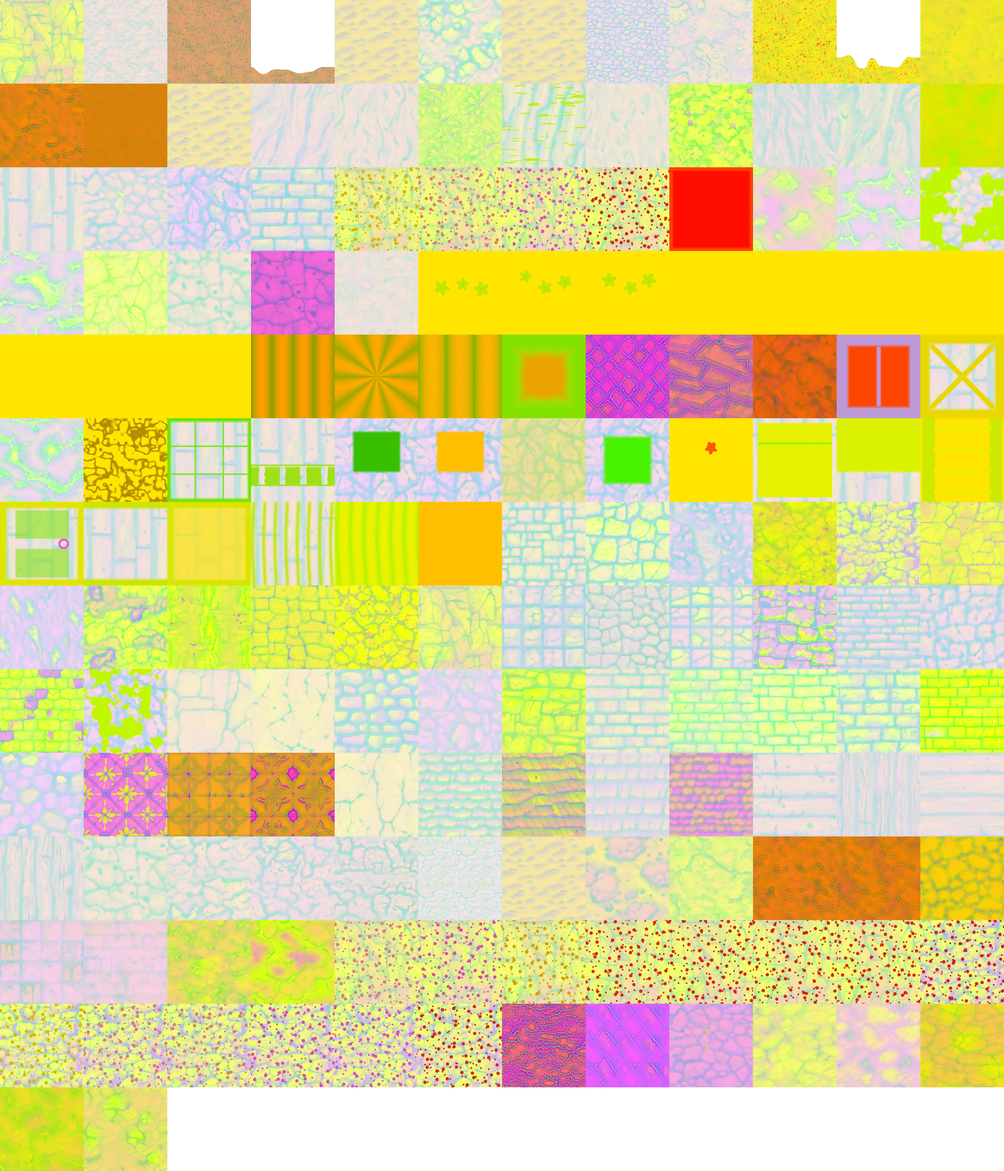
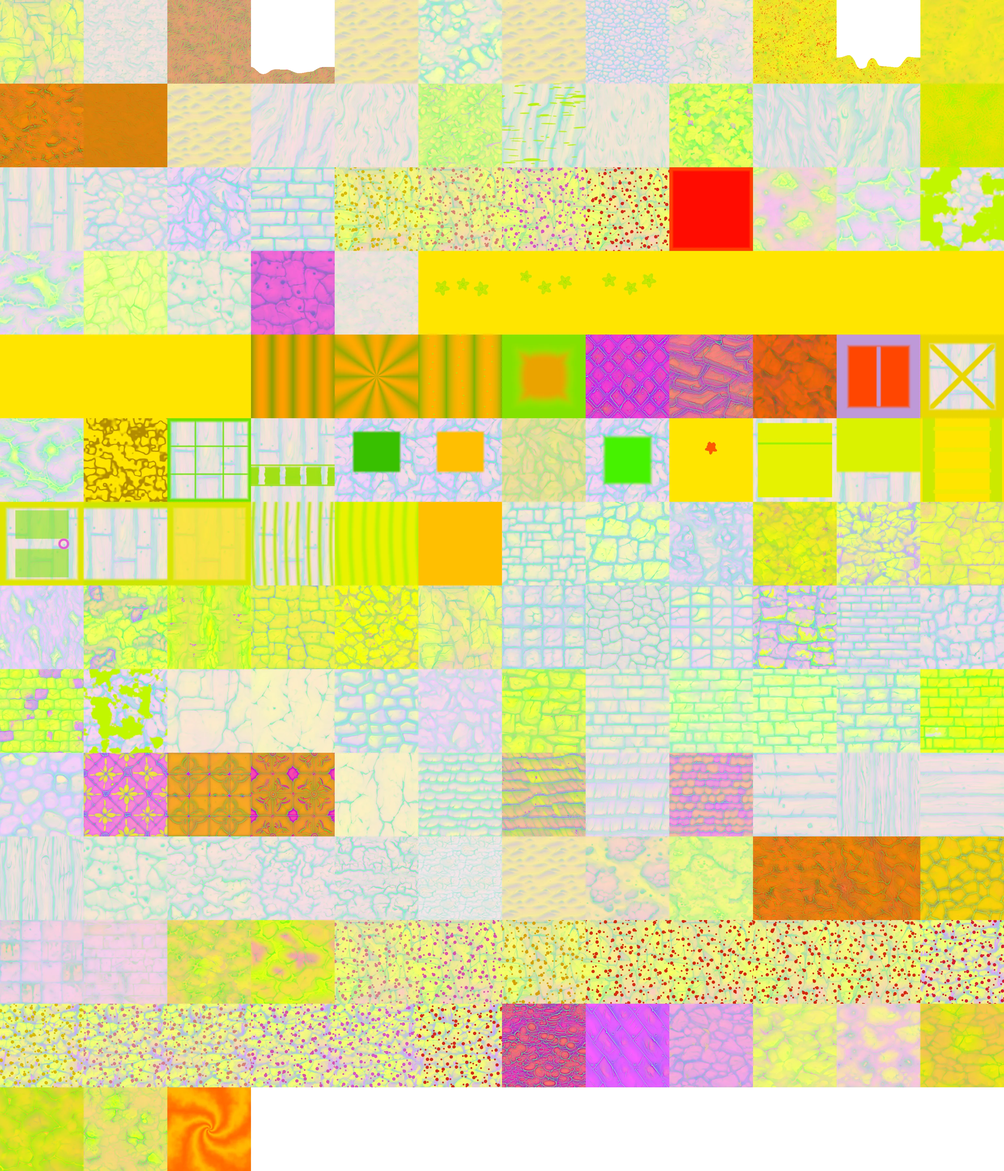
A curtain of light down every divider, seen from across the map.
The portal blocks are terrain and terrain streams: chunks load at 150 and are
freed at 190, so a divider four hundred units away is not dim, it does not
exist as geometry. No amount of emission on a tile answers "make the divider
glow visible from far", and the fog would hide it if it did.

So `render/Dividers.js` is a second object that stands in for them at range.
One draw call: a 1x1 plane, 144 instances (the 16 ring edges times the 9 wrap
copies, so the nearest copy is always in front of you and nothing is re-placed
at a seam), 288 triangles, instance matrices written once and never touched.
Its own material, so no fog; additive; and the fragment fades itself out under
170 units, which is inside the range the real blocks are kept to, so the two
never fight.

Also re-bakes the tile atlas. It was one layer short - `edgestone` had been
added to TILES without a bake, so the block at layer 158 has been sampling off
the end of the array since it landed. The portal now has its tile.

Verified in the running game, save slot 7: the divider draws as an opaque wall
of violet swirls and the crosshair names it PORTAL; walking west into it from
face 2 at x=416.1, y=43 puts you at x=414.5 on face 1, y=33, grounded and
unhurt; and the curtain reads across the map from 385 units out, above the
terrain and through the fog.

Claude-Session: https://claude.ai/code/session_01RLLAmuXJK1RFtqMSouLPDf

Changed region(s): [[0.1562, 0.9062, 0.25, 1.0]]

diff --git a/src/render/Dividers.js b/src/render/Dividers.js
@@ -1,0 +1,210 @@
+// The dividers, seen from across the map.
+//
+// The portal blocks themselves are terrain, and terrain streams: chunks load
+// within CHUNK_LOAD_DIST (150) and are freed at CHUNK_KEEP_DIST (190). A
+// divider four hundred units away is therefore not dim, it **does not exist as
+// geometry** - and the map is 1248 across, so most of the time most of the
+// eight boundaries are nothing at all. The owner's ask, "make the divider glow
+// visible from far", cannot be answered with emission on a tile for that
+// reason, however bright the tile is.
+//
+// So this is a second, much cheaper object that stands in for them at range: a
+// curtain of light along each divider run, built once from `Grid.isWall`'s own
+// rule, never streamed and never rebuilt.
+//
+// ### How it stays honest against the real blocks
+//
+// Two things would give it away. The first is drawing it on top of the portal
+// you are standing next to, which reads as z-fighting on a wall - so the
+// fragment fades itself out by distance, and is gone well inside the range the
+// real blocks start loading at. The second is the fog: the curtain's whole
+// purpose is to be seen from further than the fog reaches, so it uses its own
+// material with no fog term rather than the voxel one.
+//
+// ### Cost
+//
+// One draw call. A run is a straight line of F columns, so one quad covers it,
+// and every run is the same size - so it is a single InstancedMesh over a
+// 1x1 plane: 4 vertices and 2 triangles of geometry, 144 instances (16 ring
+// edges times the 9 wrap copies), 288 triangles drawn. The instance matrices
+// are written once at construction and never touched again, which is what pays
+// for the wrap: a copy of every run at -W, 0 and +W on both axes means the
+// nearest one is always in front of you and nothing has to be re-placed as you
+// walk over the seam.
+
+import * as THREE from 'three';
+import { W, D, F, SEALED, faceOrigin, NORTH, SOUTH, WEST } from '../world/Grid.js';
+
+/**
+ * Where the curtain is invisible, and where it is at full strength.
+ *
+ * The near end sits just under CHUNK_KEEP_DIST (190), so where the two do
+ * overlap - a twenty-unit band - the curtain is at a fifth of its strength and
+ * cannot fight the real blocks. Below 170 it is gone entirely. Known and
+ * deliberate: on the low quality tier the chunks are freed at about 122, so
+ * there is a band between that and 170 where a divider is out of sight
+ * altogether. Closing it would mean fading the curtain in over the loaded
+ * chunks instead, which is the double-draw this is written to avoid.
+ */
+export const FADE_NEAR = 170;
+export const FADE_FAR = 280;
+
+/** How many wrap copies of each run, per axis. Three: -W, 0, +W. */
+const COPIES = 3;
+
+const VERT = /* glsl */`
+  varying vec2 vUvL;
+  varying vec3 vWorldPos;
+  void main() {
+    vUvL = uv;
+    vec4 wp = instanceMatrix * vec4(position, 1.0);
+    vWorldPos = (modelMatrix * wp).xyz;
+    gl_Position = projectionMatrix * viewMatrix * modelMatrix * wp;
+  }
+`;
+
+/**
+ * The look: a violet sheet standing from the ground into the sky, brightest at
+ * its base and along a few slow vertical streaks.
+ *
+ * It is deliberately NOT a picture of the swirl. The tile's spiral is a thing
+ * you read at arm's length; at four hundred units a run of them is under a
+ * pixel per block, so any detail in here is noise. What survives at that range
+ * is colour, a vertical gradient and a soft edge, and that is all this draws.
+ */
+const FRAG = /* glsl */`
+  uniform float uTime;
+  uniform vec3 uCam;
+  uniform float uNear;
+  uniform float uFar;
+  varying vec2 vUvL;
+  varying vec3 vWorldPos;
+
+  void main() {
+    // Up the sheet. Strong from the ground, thinning out toward the top so the
+    // curtain does not end on a hard line at the top of the world. It has to
+    // reach zero and not merely go dim: additive blending makes a 0.12 floor a
+    // visible straight edge against the sky, which is the one thing that would
+    // give away that this is a quad and not a shaft of light.
+    float up = vUvL.y;
+    float body = mix(1.0, 0.0, smoothstep(0.22, 1.0, up));
+
+    // Slow vertical streaks, so the curtain moves without anything having to be
+    // rebuilt. Two frequencies drifting at different rates, which is enough to
+    // stop the eye locking onto either.
+    float s1 = sin(vUvL.x * 190.0 + uTime * 0.35);
+    float s2 = sin(vUvL.x * 61.0 - uTime * 0.21);
+    float streak = 0.72 + 0.28 * (s1 * 0.45 + s2 * 0.55);
+
+    // Distance fade. Under uNear the real portal blocks are streamed in and
+    // drawing this as well would fight them.
+    float dist = distance(vWorldPos, uCam);
+    float near = smoothstep(uNear, uFar, dist);
+    if (near <= 0.001) discard;
+
+    vec3 col = mix(vec3(0.52, 0.04, 0.98), vec3(0.92, 0.26, 1.0), up * 0.6 + 0.2);
+    gl_FragColor = vec4(col * body * streak * near * 1.15, 1.0);
+  }
+`;
+
+/**
+ * The curtains over every divider on the map.
+ *
+ * Built from the same rule `Grid.isWall` is: the outermost ring of each sealed
+ * face, four edges apiece. The two edges where two sealed faces sit back to
+ * back get a curtain each, one column apart, and that is left alone rather than
+ * de-duplicated - the world really does have two divider columns there, and
+ * they read as one slightly stronger boundary, which is true.
+ */
+export class Dividers {
+  /** @param {THREE.Scene} scene */
+  constructor(scene) {
+    this.scene = scene;
+    const geo = new THREE.PlaneGeometry(1, 1);
+    this.material = new THREE.ShaderMaterial({
+      uniforms: {
+        uTime: { value: 0 },
+        uCam: { value: new THREE.Vector3() },
+        uNear: { value: FADE_NEAR },
+        uFar: { value: FADE_FAR },
+      },
+      vertexShader: VERT,
+      fragmentShader: FRAG,
+      transparent: true,
+      blending: THREE.AdditiveBlending,
+      depthWrite: false,
+      side: THREE.DoubleSide,
+      fog: false,
+    });
+
+    const runs = dividerRuns();
+    this.mesh = new THREE.InstancedMesh(geo, this.material, runs.length * COPIES * COPIES);
+    this.mesh.frustumCulled = false;      // one object spanning the whole map
+    this.mesh.renderOrder = 6;            // after the opaque world, before the UI
+    this.mesh.matrixAutoUpdate = false;
+
+    const m = new THREE.Matrix4();
+    const q = new THREE.Quaternion();
+    const pos = new THREE.Vector3();
+    const scale = new THREE.Vector3();
+    const YAXIS = new THREE.Vector3(0, 1, 0);
+    let n = 0;
+    for (const r of runs) {
+      // A plane is born in the XY plane facing +Z. A run along map x needs no
+      // turn; one along map y is the same sheet a quarter turn about up.
+      q.setFromAxisAngle(YAXIS, r.alongX ? 0 : Math.PI / 2);
+      scale.set(F, D, 1);
+      for (let a = -1; a <= 1; a++) {
+        for (let b = -1; b <= 1; b++) {
+          pos.set(r.x + a * W, D * 0.5, r.y + b * W);
+          m.compose(pos, q, scale);
+          this.mesh.setMatrixAt(n++, m);
+        }
+      }
+    }
+    this.mesh.instanceMatrix.needsUpdate = true;
+    this.count = n;
+    scene.add(this.mesh);
+  }
+
+  /**
+   * One uniform a frame and nothing else. The camera position is needed because
+   * the fade is a distance and a ShaderMaterial has no built-in for it that
+   * survives instancing.
+   */
+  update(dt, camera) {
+    this.material.uniforms.uTime.value += dt;
+    this.material.uniforms.uCam.value.copy(camera.position);
+  }
+
+  dispose() {
+    this.scene.remove(this.mesh);
+    this.mesh.geometry.dispose();
+    this.material.dispose();
+    this.mesh.dispose();
+  }
+}
+
+/**
+ * The centre line of every divider run, in world space.
+ *
+ * Sixteen of them: the four edges of each sealed face's ring. `x` and `y` are
+ * the centre of the run on the map's axes and `alongX` says which way it lies.
+ * A ring edge is F columns long and one column thick, and a column's centre is
+ * at `+0.5`, which is why the thin axis carries the half and the long one does
+ * not - the run spans the whole tile.
+ */
+export function dividerRuns() {
+  const out = [];
+  for (const f of SEALED) {
+    const o = faceOrigin(f);
+    const midLong = F * 0.5;
+    for (let dir = 0; dir < 4; dir++) {
+      if (dir === NORTH) out.push({ x: o.x + midLong, y: o.y + 0.5, alongX: true });
+      else if (dir === SOUTH) out.push({ x: o.x + midLong, y: o.y + F - 0.5, alongX: true });
+      else if (dir === WEST) out.push({ x: o.x + 0.5, y: o.y + midLong, alongX: false });
+      else out.push({ x: o.x + F - 0.5, y: o.y + midLong, alongX: false });
+    }
+  }
+  return out;
+}

diff --git a/src/main.js b/src/main.js
@@ -14,6 +14,7 @@ import { TouchControls } from './ui/TouchControls.js';
 import { Sky, MOON_FILL } from './render/Sky.js';
 import { PostFX } from './render/PostFX.js';
 import { Particles } from './render/Particles.js';
+import { Dividers } from './render/Dividers.js';
 import { BlockModels, CAP as BLOCK_MODEL_CAP } from './render/BlockModels.js';
 import { SignText } from './render/SignText.js';
 import {
@@ -1841,6 +1842,12 @@ class Game {
     this.player.autoJump = !!this.settings.autoJump;
     this.viewModel = new ViewModel((id) => this.drops.createItemMesh(id));
     this.sky = new Sky(this.scene, this.renderer);
+    // The dividers, seen from across the map. The portal blocks are terrain and
+    // terrain streams, so a boundary four hundred units off does not exist as
+    // geometry at all; this is the curtain of light that stands in for it past
+    // the streaming range. One draw call, built once, never rebuilt. See
+    // render/Dividers.js.
+    this.dividers = new Dividers(this.scene);
     this.particles = new Particles(this.scene, this.planet);
     // `setQuality` also does this, but it only runs when the tier CHANGES, and
     // a session that never opens the settings never calls it. The particles are
@@ -5922,6 +5929,7 @@ class Game {
     else this._frozenUpdate(dt);
 
     voxelUniforms.uTime.value += dt;
+    this.dividers.update(dt, this.camera);
     // Seat every chunk on the copy of itself nearest the eye, so terrain at
     // x = 0 seen from x = 1247 is drawn one unit away rather than 1247. The map
     // wraps and the vertices do not, so without this there is a hole in the

diff --git a/src/render/TextureGen.js b/src/render/TextureGen.js
@@ -843,8 +843,8 @@ G.snow = (s) => {
  *
  * Measured over the finished 128x128 tile: rgb min 17/3/35, max 243/138/253,
  * mean 145/63/186, and luma at the 5th/50th/95th percentiles 27.2 / 85.5 /
- * 161.0. Both ends of that matter. The mean sits far above the fog-banding
- * floor `edgestone` had to worry about, and the spread from 27 to 161 is what
+ * 161.0. Both ends of that matter. The mean sits far clear of the floor a
+ * near-black tile has to worry about, where the fog bands it, and the spread from 27 to 161 is what
  * says the tile still has a shape in it rather than having flattened into one
  * bright lilac wash.
  */
